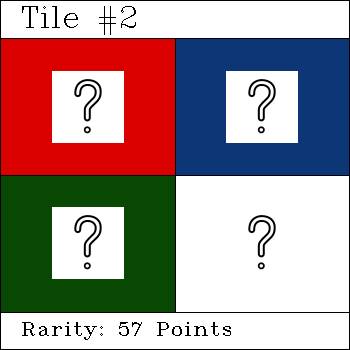
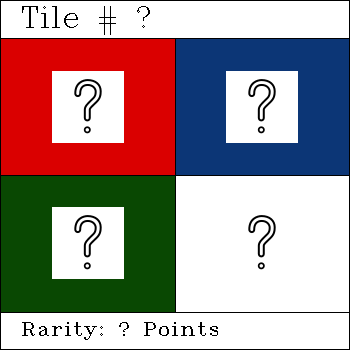
fixed the sale image

Changed region(s): [[0.3429, 0.9143, 0.6571, 0.9714], [0.3429, 0.0, 0.4286, 0.0857]]

diff --git a/src/main/java/io/tilenft/image/drawers/TitleDrawer.java b/src/main/java/io/tilenft/image/drawers/TitleDrawer.java
@@ -14,12 +14,7 @@ public class TitleDrawer {
 
   public Mat drawTitle(Mat src, Long tokenId) {
     Imgproc.putText(
-        src,
-        "Tile #" + numberFormat.format(tokenId),
-        new Point(20, 27),
-        Core.FONT_HERSHEY_COMPLEX,
-        1,
-        new Scalar(0, 0, 0, 255));
+        src, "Tile # ?", new Point(20, 27), Core.FONT_HERSHEY_COMPLEX, 1, new Scalar(0, 0, 0, 255));
     return src;
   }
 }

diff --git a/src/main/java/io/tilenft/image/drawers/SubTitleDrawer.java b/src/main/java/io/tilenft/image/drawers/SubTitleDrawer.java
@@ -15,7 +15,7 @@ public class SubTitleDrawer {
   public Mat drawSubTitle(Mat src, Long score) {
     Imgproc.putText(
         src,
-        "Rarity: " + numberFormat.format(score) + " Points",
+        "Rarity: " + "?" + " Points",
         new Point(20, 335),
         Core.FONT_HERSHEY_COMPLEX_SMALL,
         1,
